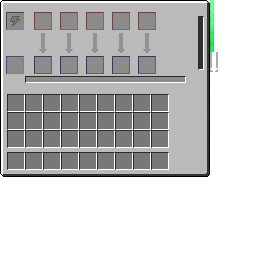
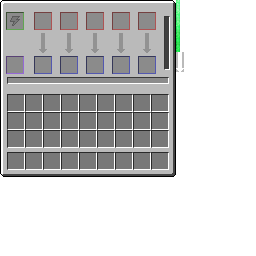
修改最终工厂的gui界面
还是没做好，不过修好了之前的原来版本的工厂的gui界面

Changed region(s): [[0.0312, 0.0, 0.875, 0.7188]]

diff --git a/src/main/java/mekanism/client/gui/GuiFactory.java b/src/main/java/mekanism/client/gui/GuiFactory.java
@@ -6,12 +6,16 @@ import mekanism.api.TileNetworkList;
 import mekanism.api.gas.GasStack;
 import mekanism.api.infuse.InfuseType;
 import mekanism.client.gui.element.GuiEnergyInfo;
+import mekanism.client.gui.element.GuiRecipeType;
 import mekanism.client.gui.element.GuiRecipeType2;
+import mekanism.client.gui.element.GuiRedstoneControl;
 import mekanism.client.gui.element.GuiRedstoneControl2;
+import mekanism.client.gui.element.tab.GuiSecurityTab;
 import mekanism.client.gui.element.tab.GuiSecurityTab2;
 import mekanism.client.gui.element.tab.GuiSideConfigurationTab;
 import mekanism.client.gui.element.tab.GuiSortingTab;
 import mekanism.client.gui.element.tab.GuiTransporterConfigTab;
+import mekanism.client.gui.element.tab.GuiUpgradeTab;
 import mekanism.client.gui.element.tab.GuiUpgradeTab2;
 import mekanism.client.render.MekanismRenderer;
 import mekanism.client.sound.SoundHandler;
@@ -47,13 +51,34 @@ public class GuiFactory extends GuiMekanismTile<TileEntityFactory> {
     public GuiFactory(InventoryPlayer inventory, TileEntityFactory tile) {
         super(tile, new ContainerFactory(inventory, tile));
         ySize += 11;
-        xSize += 34;
+        if (tile.tier == FactoryTier.ULTIMATE) {
+            xSize += 34;
+        }
+
 
         ResourceLocation resource = tileEntity.tier.guiLocation;
-        addGuiElement(new GuiRedstoneControl2(this, tileEntity, resource));
+        if (tile.tier == FactoryTier.ULTIMATE) {
         addGuiElement(new GuiSecurityTab2(this, tileEntity, resource));
         addGuiElement(new GuiUpgradeTab2(this, tileEntity, resource));
+        addGuiElement(new GuiRedstoneControl2(this, tileEntity, resource));
         addGuiElement(new GuiRecipeType2(this, tileEntity, resource));
+        }else if (tile.tier == FactoryTier.BASIC ) {
+            addGuiElement(new GuiSecurityTab(this, tileEntity, resource));
+            addGuiElement(new GuiUpgradeTab(this, tileEntity, resource));
+            addGuiElement(new GuiRedstoneControl(this, tileEntity, resource));
+            addGuiElement(new GuiRecipeType(this, tileEntity, resource));
+        }else if (tile.tier == FactoryTier.ADVANCED ) {
+            addGuiElement(new GuiSecurityTab(this, tileEntity, resource));
+            addGuiElement(new GuiUpgradeTab(this, tileEntity, resource));
+            addGuiElement(new GuiRedstoneControl(this, tileEntity, resource));
+            addGuiElement(new GuiRecipeType(this, tileEntity, resource));
+        }else if (tile.tier == FactoryTier.ELITE ) {
+            addGuiElement(new GuiSecurityTab(this, tileEntity, resource));
+            addGuiElement(new GuiUpgradeTab(this, tileEntity, resource));
+            addGuiElement(new GuiRedstoneControl(this, tileEntity, resource));
+            addGuiElement(new GuiRecipeType(this, tileEntity, resource));
+        }
+
         addGuiElement(new GuiSideConfigurationTab(this, tileEntity, resource));
         addGuiElement(new GuiTransporterConfigTab(this, 34, tileEntity, resource));
         addGuiElement(new GuiSortingTab(this, tileEntity, resource));

diff --git a/src/main/java/mekanism/client/gui/element/GuiRecipeType2.java b/src/main/java/mekanism/client/gui/element/GuiRecipeType2.java
@@ -2,7 +2,6 @@ package mekanism.client.gui.element;
 
 import mekanism.client.gui.IGuiWrapper;
 import mekanism.common.tile.TileEntityFactory;
-import mekanism.common.tile.TileEntityUltimateFactory;
 import mekanism.common.util.MekanismUtils;
 import mekanism.common.util.MekanismUtils.ResourceType;
 import net.minecraft.util.ResourceLocation;
@@ -13,25 +12,25 @@ import net.minecraftforge.fml.relauncher.SideOnly;
 public class GuiRecipeType2 extends GuiTileEntityElement<TileEntityFactory> {
 
     public GuiRecipeType2(IGuiWrapper gui, TileEntityFactory tile, ResourceLocation def) {
-        super(MekanismUtils.getResource(ResourceType.GUI_ELEMENT, "GuiRecipeType.png"), gui, def, tile);
+        super(MekanismUtils.getResource(ResourceType.GUI_ELEMENT, "GuiRecipeType2.png"), gui, def, tile);
     }
 
     @Override
     public Rectangle4i getBounds(int guiWidth, int guiHeight) {
-        return new Rectangle4i(guiWidth + 176, guiHeight + 90, 26, 63);
+        return new Rectangle4i(guiWidth + 176, guiHeight + 70, 26, 63);
     }
 
     @Override
     protected boolean inBounds(int xAxis, int yAxis) {
-        return xAxis >= 210 && xAxis <= 196 && (yAxis >= 95 && yAxis <= 101 || yAxis >= 132 && yAxis <= 148);
+        return xAxis >= 180 && xAxis <= 196 && (yAxis >= 75 && yAxis <= 91 || yAxis >= 112 && yAxis <= 128);
     }
 
     @Override
     public void renderBackground(int xAxis, int yAxis, int guiWidth, int guiHeight) {
-            mc.renderEngine.bindTexture(RESOURCE);
-        guiObj.drawTexturedRect(guiWidth + 176, guiHeight + 90, 0, 0, 26, 63);
+        mc.renderEngine.bindTexture(RESOURCE);
+        guiObj.drawTexturedRect(guiWidth + 176, guiHeight + 70, 0, 0, 26, 63);
         int displayInt = tileEntity.getScaledRecipeProgress(15);
-        guiObj.drawTexturedRect(guiWidth + 181, guiHeight + 104, 26, 0, 10, displayInt);
+        guiObj.drawTexturedRect(guiWidth + 181, guiHeight + 94, 26, 0, 10, displayInt);
         mc.renderEngine.bindTexture(defaultLocation);
     }
 

diff --git a/src/main/java/mekanism/client/gui/element/GuiRedstoneControl2.java b/src/main/java/mekanism/client/gui/element/GuiRedstoneControl2.java
@@ -19,26 +19,26 @@ import net.minecraftforge.fml.relauncher.SideOnly;
 public class GuiRedstoneControl2 extends GuiTileEntityElement<TileEntity> {
 
     public GuiRedstoneControl2(IGuiWrapper gui, TileEntity tile, ResourceLocation def) {
-        super(MekanismUtils.getResource(ResourceType.GUI_ELEMENT, "GuiRedstoneControl.png"), gui, def, tile);
+        super(MekanismUtils.getResource(ResourceType.GUI_ELEMENT, "GuiRedstoneControl2.png"), gui, def, tile);
     }
 
     @Override
     public Rectangle4i getBounds(int guiWidth, int guiHeight) {
-        return new Rectangle4i(guiWidth + 210, guiHeight + 138, 26, 26);
+        return new Rectangle4i(guiWidth + 176, guiHeight + 138, 26, 26);
     }
 
     @Override
     protected boolean inBounds(int xAxis, int yAxis) {
-        return xAxis >= 210 && xAxis <= 228 && yAxis >= 142 && yAxis <= 160;
+        return xAxis >= 179 && xAxis <= 197 && yAxis >= 142 && yAxis <= 160;
     }
 
     @Override
     public void renderBackground(int xAxis, int yAxis, int guiWidth, int guiHeight) {
         mc.renderEngine.bindTexture(RESOURCE);
-        guiObj.drawTexturedRect(guiWidth + 210, guiHeight + 138, 0, 0, 26, 26);
+        guiObj.drawTexturedRect(guiWidth + 176, guiHeight + 138, 0, 0, 26, 26);
         IRedstoneControl control = (IRedstoneControl) tileEntity;
         int renderX = 26 + (18 * control.getControlType().ordinal());
-        guiObj.drawTexturedRect(guiWidth + 213, guiHeight + 142, renderX, inBounds(xAxis, yAxis) ? 0 : 18, 18, 18);
+        guiObj.drawTexturedRect(guiWidth + 179, guiHeight + 142, renderX, inBounds(xAxis, yAxis) ? 0 : 18, 18, 18);
         mc.renderEngine.bindTexture(defaultLocation);
     }
 

diff --git a/src/main/java/mekanism/client/gui/element/tab/GuiSecurityTab2.java b/src/main/java/mekanism/client/gui/element/tab/GuiSecurityTab2.java
@@ -56,7 +56,7 @@ public class GuiSecurityTab2 extends GuiTileEntityElement<TileEntity> {
     }
 
     @Override
-    public void renderBackground(int xAxis, int yAxis, int guiWidth, int guiHeight) {
+        public void renderBackground(int xAxis, int yAxis, int guiWidth, int guiHeight) {
         mc.renderEngine.bindTexture(RESOURCE);
         guiObj.drawTexturedRect(guiWidth + 210, guiHeight + 32, 0, 0, 26, 26);
         SecurityMode mode = getSecurity();

diff --git a/src/main/java/mekanism/client/gui/element/GuiEnergyInfo.java b/src/main/java/mekanism/client/gui/element/GuiEnergyInfo.java
@@ -23,7 +23,7 @@ public class GuiEnergyInfo extends GuiElement {
     }
 
     @Override
-    public Rectangle4i getBounds(int guiWidth, int guiHeight) {
+        public Rectangle4i getBounds(int guiWidth, int guiHeight) {
         return new Rectangle4i(guiWidth - 26, guiHeight + 138, 26, 26);
     }
 
